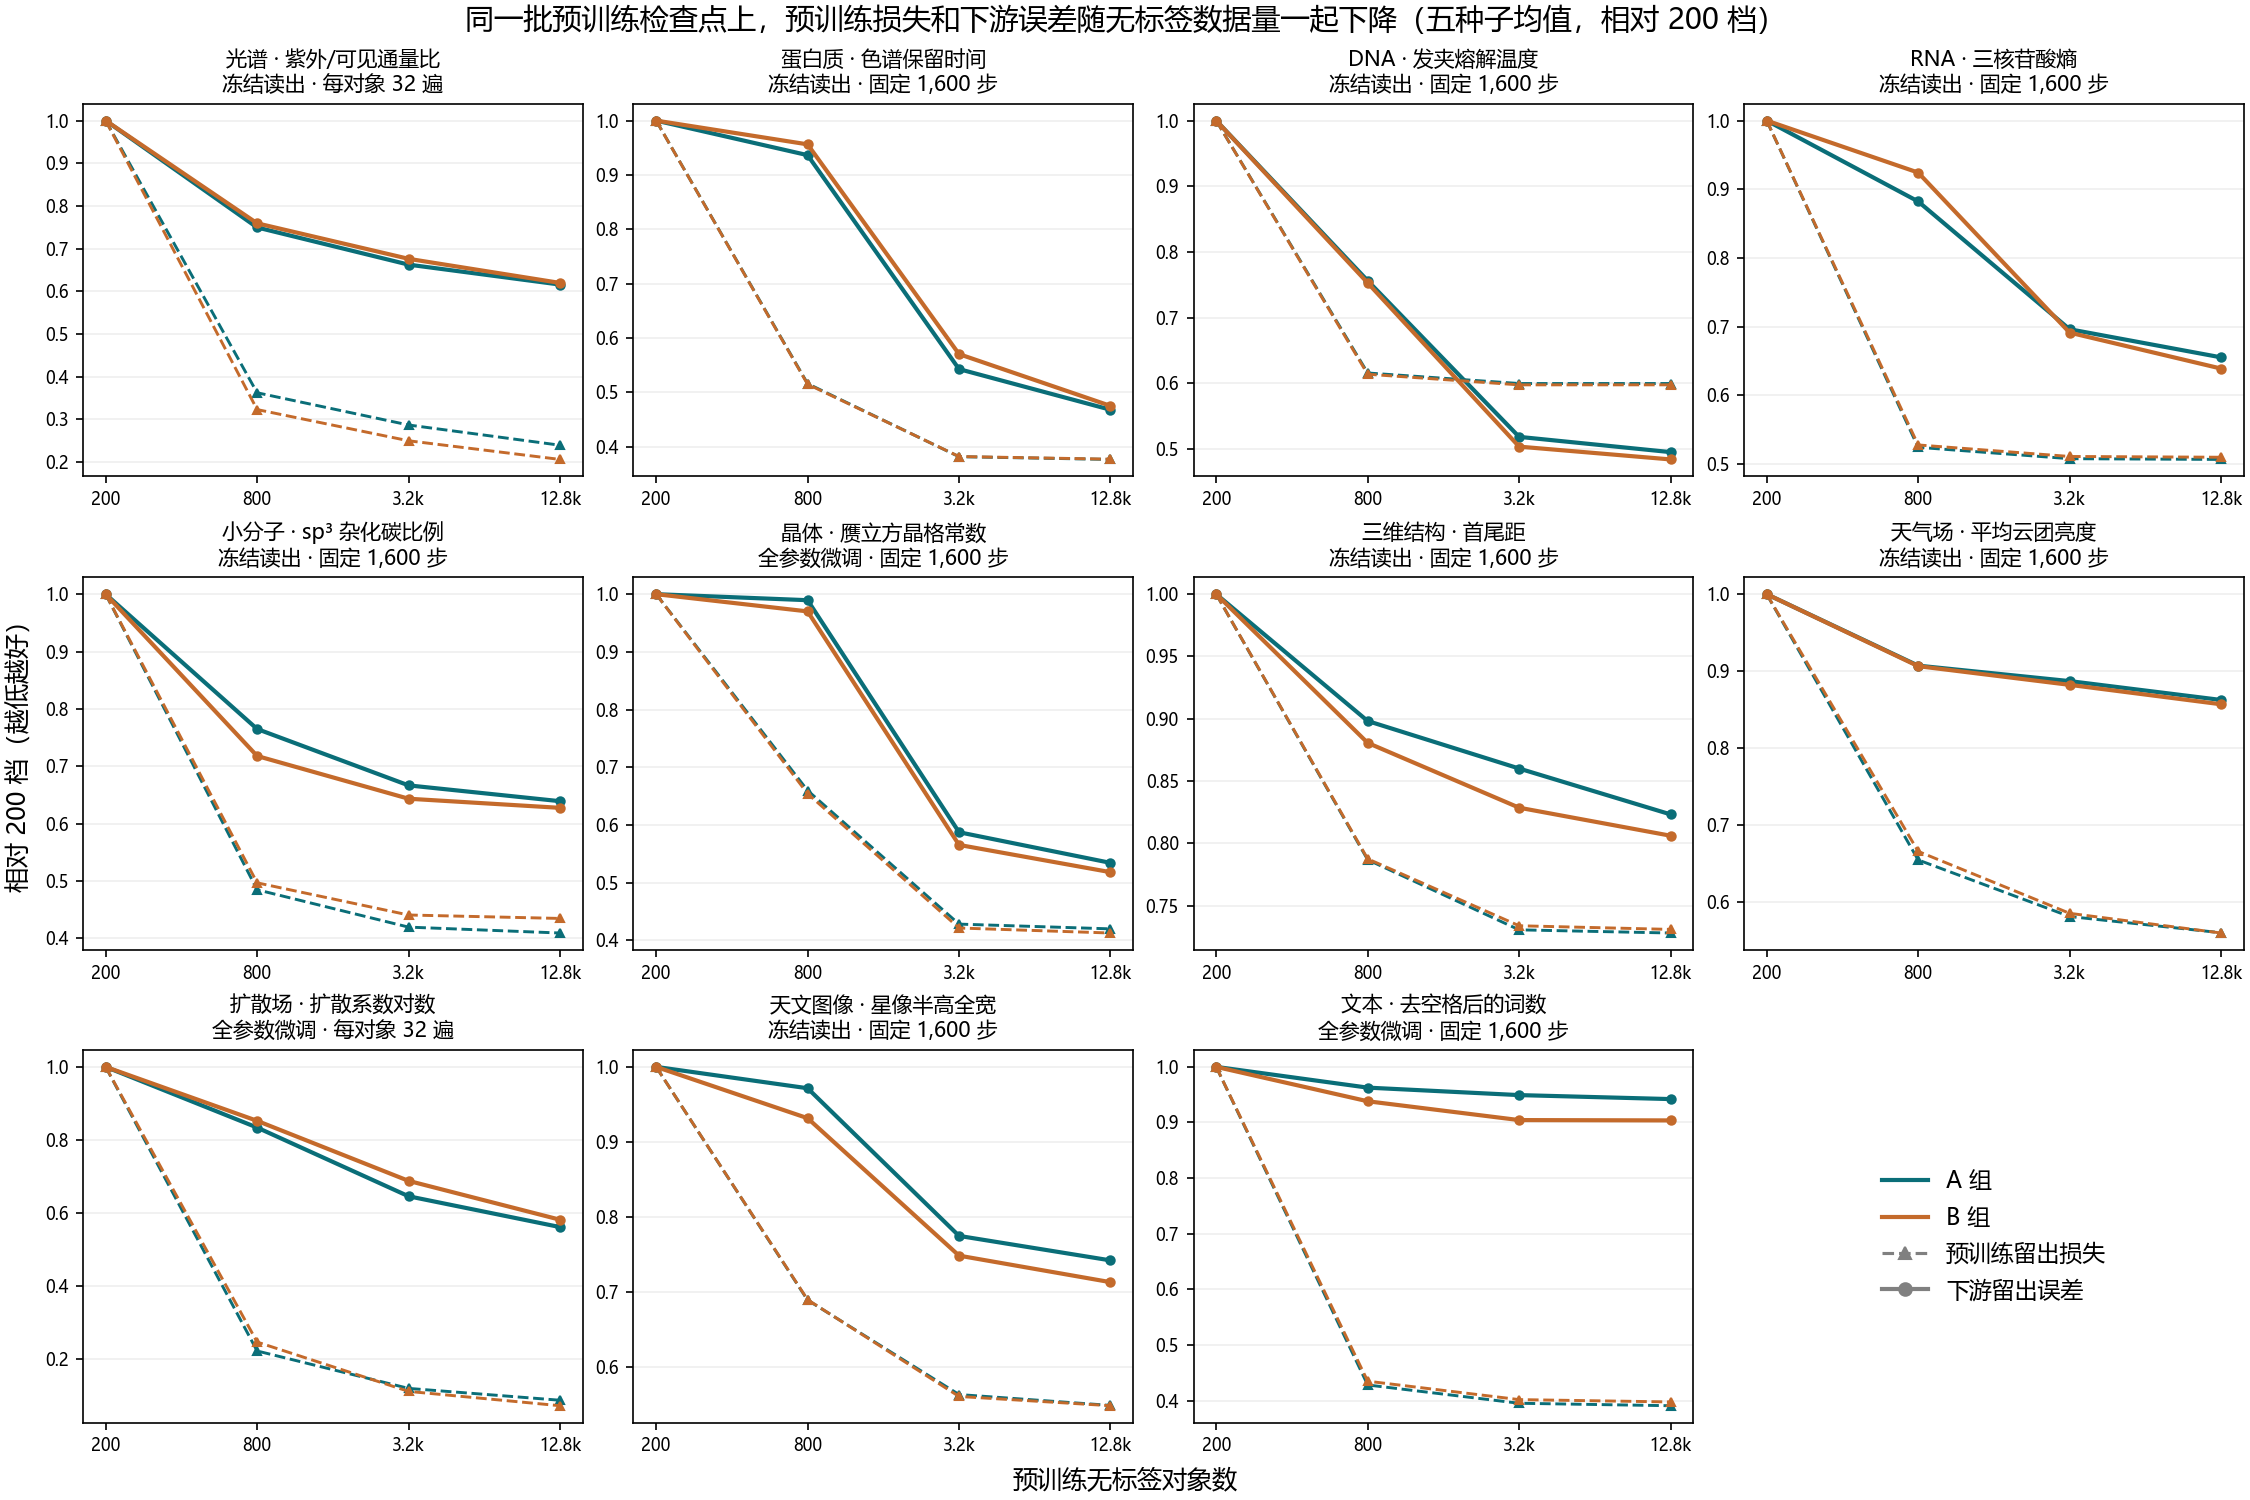
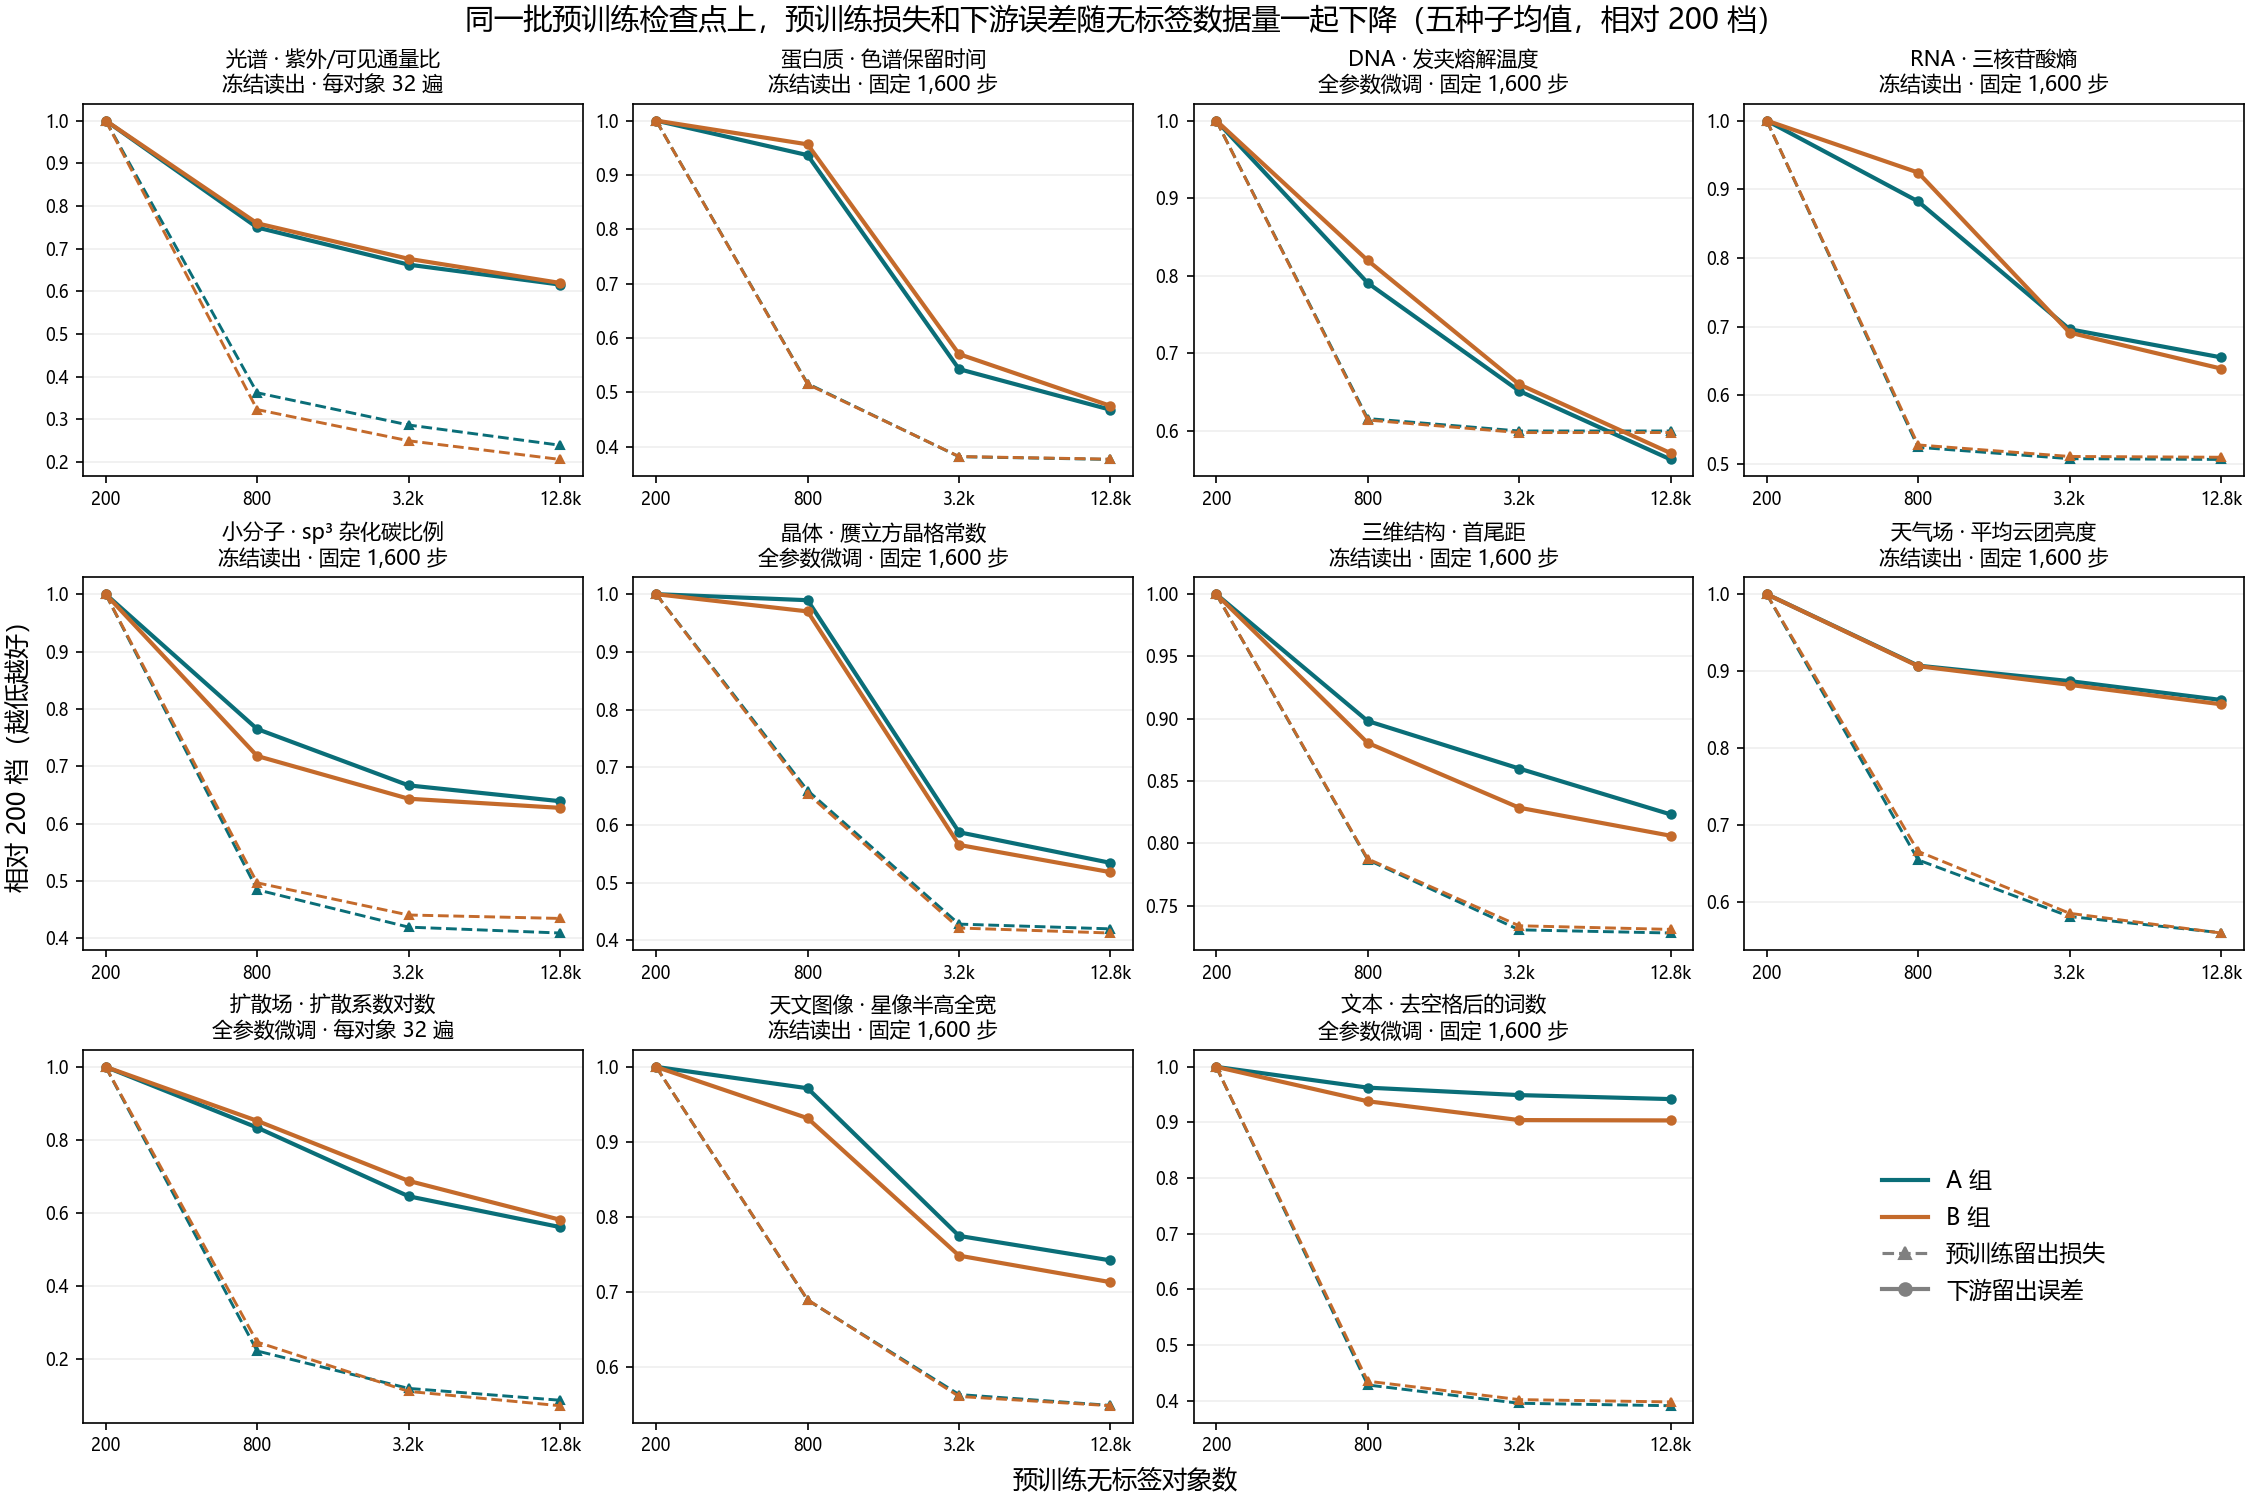
Keep DNA on full fine-tuning so pretraining beats training from scratch

Changed region(s): [[0.56, 0.1227, 0.7467, 0.3067], [0.5911, 0.0307, 0.6844, 0.0613], [0.5289, 0.092, 0.56, 0.1227]]

diff --git a/nanoscigpt/tasks/eleven.py b/nanoscigpt/tasks/eleven.py
@@ -26,7 +26,7 @@ FIELDS = {
                      token="连续 4 个波长采样点的通量"),
     "protein": dict(name="蛋白质", kind="symbol", vocab=19, positions=32, task="色谱保留时间（分钟）", readout="probe", budget="fixed",
                     token="1 个氨基酸"),
-    "dna": dict(name="DNA", kind="symbol", vocab=6, positions=64, task="发夹熔解温度（°C）", readout="probe", budget="fixed",
+    "dna": dict(name="DNA", kind="symbol", vocab=6, positions=64, task="发夹熔解温度（°C）", readout="finetune", budget="fixed",
                 token="1 个碱基"),
     "rna": dict(name="RNA", kind="symbol", vocab=6, positions=32, task="三核苷酸熵（bit）", readout="probe", budget="fixed",
                 token="1 个碱基"),

diff --git a/docs/pretraining-scale/shared-checkpoints/README.md b/docs/pretraining-scale/shared-checkpoints/README.md
@@ -8,7 +8,7 @@
 |---|---|---|---|---:|---:|---:|---:|
 | 光谱 | 紫外/可见通量比 | 冻结读出 | 每对象 32 遍 | 76%（3/3） / 79%（3/3） | 38.4%（3/3，5/5） / 38.0%（3/3，5/5） | +42% / +40% | 0.20 / 0.21 |
 | 蛋白质 | 色谱保留时间 | 冻结读出 | 固定 1,600 步 | 62%（3/3） / 62%（3/3） | 53.2%（3/3，5/5） / 52.5%（3/3，5/5） | +9% / +10% | 0.58 / 0.61 |
-| DNA | 发夹熔解温度 | 冻结读出 | 固定 1,600 步 | 40%（2/3） / 40%（2/3） | 50.5%（3/3，5/5） / 51.6%（3/3，5/5） | -4% / -5% | 0.47 / 0.49 |
+| DNA | 发夹熔解温度 | 全参数微调 | 固定 1,600 步 | 40%（2/3） / 40%（2/3） | 43.7%（3/3，5/5） / 42.9%（3/3，5/5） | +21% / +22% | 0.42 / 0.44 |
 | RNA | 三核苷酸熵 | 冻结读出 | 固定 1,600 步 | 49%（3/3） / 49%（3/3） | 34.5%（3/3，5/5） / 36.1%（3/3，5/5） | +22% / +28% | 0.97 / 0.86 |
 | 小分子 | sp³ 杂化碳比例 | 冻结读出 | 固定 1,600 步 | 59%（3/3） / 57%（3/3） | 36.1%（3/3，5/5） / 37.3%（3/3，5/5） | -7% / +5% | 0.50 / 0.60 |
 | 晶体 | 赝立方晶格常数 | 全参数微调 | 固定 1,600 步 | 58%（3/3） / 59%（3/3） | 46.6%（3/3，5/5） / 48.2%（3/3，5/5） | +81% / +82% | 0.21 / 0.20 |
@@ -22,7 +22,7 @@
 
 ## 口径统一
 
-7 个方向用统一口径：冻结主干，只训练线性头，固定 1,600 步。分别是蛋白质、DNA、RNA、小分子、三维结构、天气场、天文图像。另外 4 个方向保留原做法，原因如下。
+6 个方向用统一口径：冻结主干，只训练线性头，固定 1,600 步。分别是蛋白质、RNA、小分子、三维结构、天气场、天文图像。另外 5 个方向保留原做法，原因如下。
 
 | 方向 | 统一口径下的留出结果（A / B） | 保留的做法 |
 |---|---|---|
@@ -30,8 +30,9 @@
 | 扩散场 | 下游降 2.0%、升 1.6%，均为 2/3 段；固定 1,600 步时预训练损失在 3,200 档最低 | 每对象 32 遍，全参数微调 |
 | 文本 | 词数降 10.8% 和 13.9%，均为 2/3 段，误差是只猜均值的 1.3 到 1.4 倍 | 全参数微调 |
 | 晶体 | 见下节，换成了晶格常数 | 全参数微调 |
+| DNA | 两组都三段下降（降 51% 和 52%），但 12,800 档比不预训练差 4% 到 5% | 全参数微调，12,800 档比不预训练好 21% 到 22% |
 
-蛋白质、DNA、天文图像原来用全参数微调，这次改用冻结读出后，两组都三段下降，于是改了口径。DNA 改用冻结读出后，12,800 档比不预训练还差 4% 到 5%，原来的全参数微调则比不预训练好 21%。
+蛋白质和天文图像原来用全参数微调，改用冻结读出后两组都三段下降，于是改了口径。DNA 在冻结读出下也三段下降，但讲课需要看到预训练比不预训练更好，所以保留全参数微调。
 
 ## 文本、RNA、晶体的补筛
 

diff --git a/README.md b/README.md
@@ -26,11 +26,11 @@
 
 ![十一个方向的预训练损失与下游误差](docs/pretraining-scale/shared-checkpoints/curves.png)
 
-7 个方向的口径完全统一：冻结主干，只训练线性头，每档固定 1,600 次预训练更新，所以曲线只反映数据量的变化。另外 4 个方向保留了其他做法。光谱和扩散场每个对象平均训练 32 遍，数据越多训练步数越多；晶体和文本用全参数微调。比较弱的几处：
+6 个方向的口径完全统一：冻结主干，只训练线性头，每档固定 1,600 次预训练更新，所以曲线只反映数据量的变化。另外 5 个方向保留了其他做法。光谱和扩散场每个对象平均训练 32 遍，数据越多训练步数越多；晶体、文本和 DNA 用全参数微调。DNA 换成冻结读出后也能逐档下降，但 12,800 档比不预训练差约 5%，所以保留全参数微调，这时比不预训练好 21%。比较弱的几处：
 
 - **文本**：下游误差和只猜均值差不多。
 - **RNA**：只比只猜均值好约 10%。
-- **DNA**：预训练损失在最后一档持平，下游在 12,800 档比不预训练差约 5%。
+- **DNA**：预训练损失在最后一档基本持平。
 - **晶体**：下游任务晶格常数几乎就写在第一个 token（晶格矩阵）里，测的是模型能不能把这个数读准。
 
 [逐方向数字、口径说明和全部留出结果](docs/pretraining-scale/shared-checkpoints/README.md)
@@ -46,7 +46,7 @@
 | 扩散场（默认） | 25 秒 | 0.130 / 0.124 / 0.094 | 0.170 | 是 |
 | 光谱 | 17 秒 | 0.112 / 0.094 / 0.062 | 0.330 | 是 |
 | 蛋白质 | 57 秒 | 13.20 / 13.95 / 8.02 | 10.84 | 否 |
-| DNA | 98 秒 | 8.08 / 5.93 / 3.47 | 7.03 | 是 |
+| DNA | 约 100 秒 | 5.26 / 5.05 / 4.15 | 7.03 | 是 |
 | RNA | 56 秒 | 0.310 / 0.254 / 0.169 | 0.174 | 是 |
 | 小分子 | 46 秒 | 0.200 / 0.147 / 0.092 | 0.236 | 是 |
 | 晶体 | 31 秒 | 0.067 / 0.078 / 0.048 | 0.224 | 否 |
